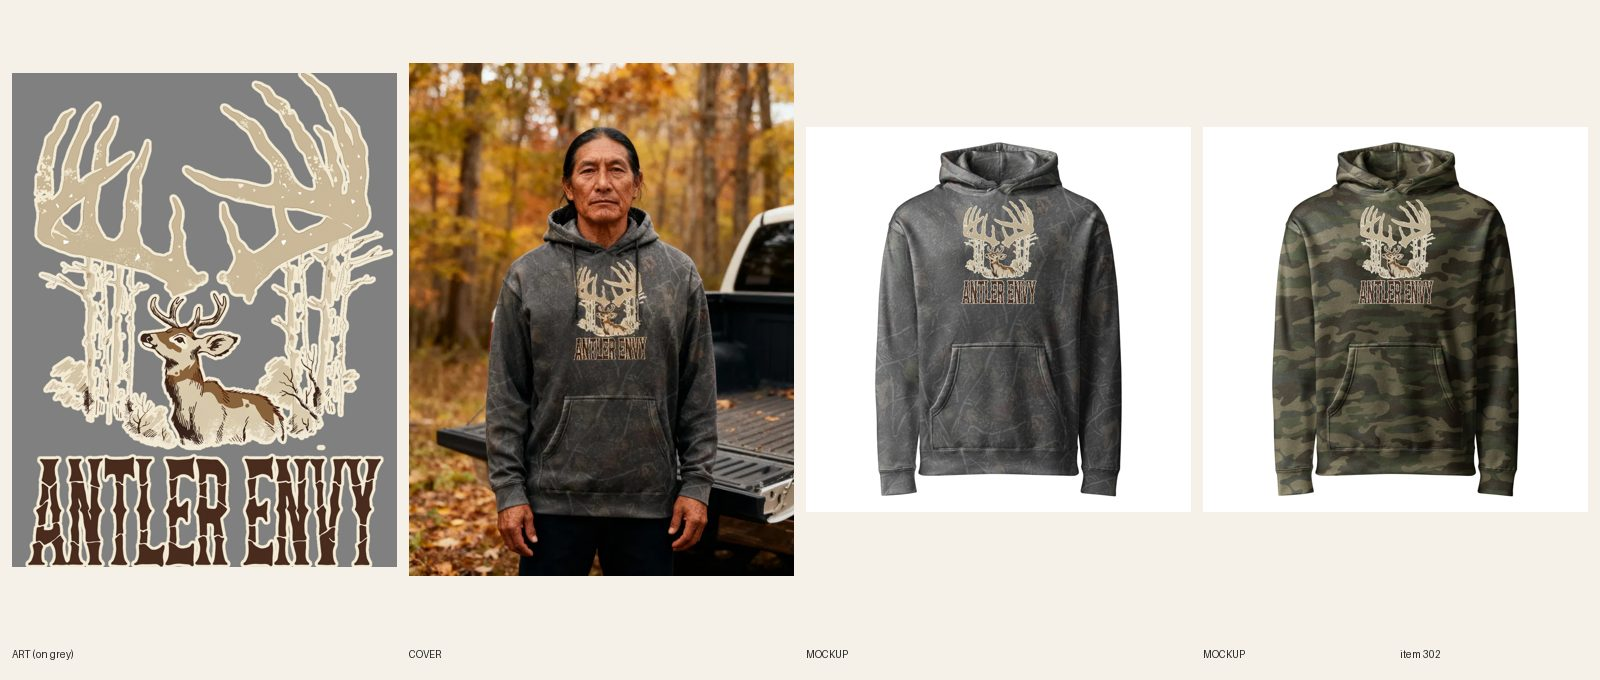
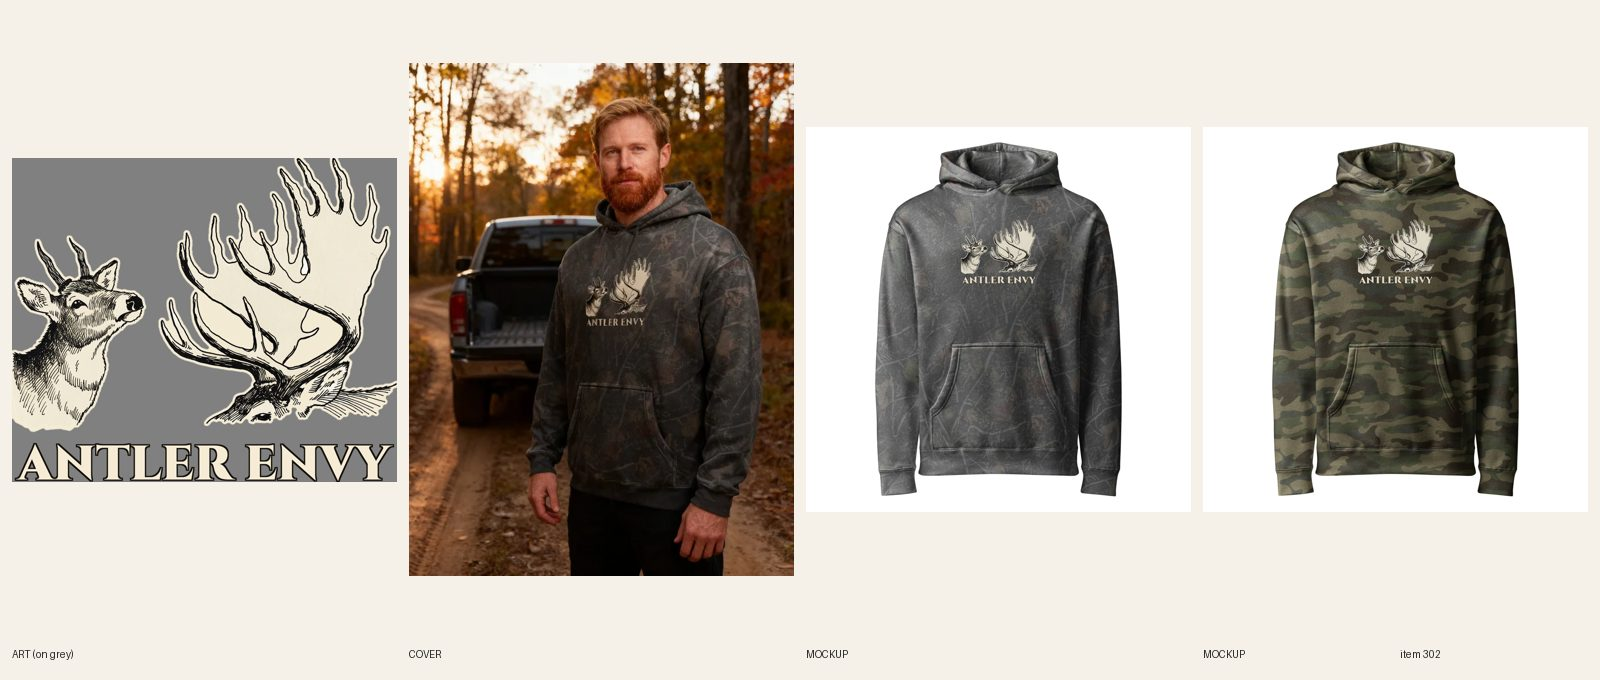
[B] review 302 camo redo 13 (antler envy field-guide print, lifestyle photos)

Changed region(s): [[0.0, 0.0926, 0.5, 0.8647], [0.8438, 0.2779, 0.9062, 0.4632], [0.5938, 0.2779, 0.6562, 0.4632]]

diff --git a/src/data/covers.ts b/src/data/covers.ts
@@ -322,7 +322,7 @@ export const covers: Record<string, { src: string; alt: string }> = {
   'womens-hunting-ducks-in-a-row-camo-hoodie': { src: '/covers/womens-hunting-ducks-in-a-row-camo-hoodie.webp', alt: 'Woman in her late 30s with blonde hair in a messy bun and freckles in a Duck Camo Got My Ducks in a Row hoodie at a farm pond edge in October with ducks on the water' },
   'womens-hunting-doe-not-disturb-camo-hoodie': { src: '/covers/womens-hunting-doe-not-disturb-camo-hoodie.webp', alt: 'Woman in her mid 30s with wavy dark hair and a few grey strands in a Forest Camo Doe Not Disturb sleepy doe hoodie, eyes closed, leaning on a pickup tailgate at a hayfield at golden hour with a thermos beside her' },
   'mens-hunting-i-saw-you-move-squirrel-camo-hoodie': { src: '/covers/mens-hunting-i-saw-you-move-squirrel-camo-hoodie.webp', alt: 'Man in his late 30s with short twists and light stubble in a Forest Camo Saw You Move hoodie with a small squirrel graphic on the left chest, smiling with a coffee on a hay bale beside a barn at golden hour' },
-  'mens-hunting-antler-envy-buck-camo-hoodie': { src: '/covers/mens-hunting-antler-envy-buck-camo-hoodie.webp', alt: 'Man in his late 40s with long black hair tied back in a Darkwood Tree Camo Antler Envy buck hoodie on a dirt two-track through autumn woods beside a pickup with the tailgate down' },
+  'mens-hunting-antler-envy-buck-camo-hoodie': { src: '/covers/mens-hunting-antler-envy-buck-camo-hoodie.webp', alt: 'Man in his mid 40s with a trimmed red-brown beard in a Darkwood Tree Camo Antler Envy buck hoodie on a dirt two-track through autumn woods at first light beside a pickup with the tailgate down' },
   'unisex-possum-playing-dead-camo-hoodie': { src: '/covers/unisex-possum-playing-dead-camo-hoodie.webp', alt: 'Man and woman in matching Forest Camo Playing Dead Till Friday possum hoodies standing by a leafy college-town park bench in October with coffee cups beside them' },
   'mens-hunting-call-me-after-duck-season-camo-sweatshirt': { src: '/covers/mens-hunting-call-me-after-duck-season-camo-sweatshirt.webp', alt: 'Man in his early 60s with a bald head and a grey goatee in an all-over woodland camo Call Me After Duck Season sweatshirt at a marsh boat ramp at sunrise with a dog sitting beside him' },
   'womens-hunting-here-for-the-sunrise-camo-sweatshirt': { src: '/covers/womens-hunting-here-for-the-sunrise-camo-sweatshirt.webp', alt: 'Woman in her late 40s with shoulder-length brown hair and caramel highlights smiling in an all-over woodland camo Only Here for the Sunrise sweatshirt in a wooden duck blind on a marsh at sunrise with a thermos on the bench' },

diff --git a/designs/b302/lock.py b/designs/b302/lock.py
@@ -1,0 +1,14 @@
+import sys, subprocess; sys.path.insert(0, '.')
+from designs.lib import *
+from PIL import Image
+W = 3000; DARK = (20, 16, 12, 255)
+subprocess.run(['/usr/bin/python3', 'scripts/camo-halo.py', 'designs/b302/art_p.png', 'designs/b302/art_h.png', '60', '16'], check=True)
+ah = Image.open('designs/b302/art_h.png').convert('RGBA'); ah = ah.crop(ah.getbbox())
+ah = ah.resize((W, int(ah.height * W / ah.width)), Image.LANCZOS)
+t = line('ANTLER ENVY', 'cinzel', 0.97, W, CREAM, DARK, kw=21)
+gap = 60; H = ah.height + gap + t.height; out = Image.new('RGBA', (W, H), (0, 0, 0, 0))
+out.alpha_composite(ah, ((W - ah.width) // 2, 0)); out.alpha_composite(t, ((W - t.width) // 2, ah.height + gap))
+out = out.crop(out.getbbox()); out.save('docs/print-files/302-antler.png', dpi=(300, 300))
+print(out.size, 'text w', t.width, 'cap', t.height, 'art', ah.size, 'FW1500 h', round(1500 * out.height / out.width))
+for n, c in (('darkwood', (60, 56, 44, 255)), ('forest', (52, 62, 44, 255))):
+    b = Image.new('RGBA', out.size, c); b.alpha_composite(out); b.convert('RGB').resize((500, int(500 * out.height / out.width))).save(f'designs/b302/prev_{n}.png')

diff --git a/docs/intake-log.md b/docs/intake-log.md
@@ -1,4 +1,5 @@
 RUNNING lane B since 2026-10-26 13:40 UTC
+2026-10-26 14:25 UTC — [B] REVIEW #302 Men's Hunting – Antler Envy Camo Hoodie (camo-redo 13 of 27, S2 on A+, FW1500 TOP400, 14/14 on 1095448715, line 2955 px, subject 100%, cap 304 of 2521 px, Cinzel; 2 lifestyle photos). Product ACTIVE, director to confirm. fal ~$0.25.
 2026-10-25 23:42 UTC — [H] Helper run: Telegram inbox empty (getUpdates returned 0 updates; no pause, resume or TikTok links; nothing to consume). Shopify: 0 orders since 2026-10-25 14:42 UTC, so no order alert and no Printful hold check. Audit 732 live products: 7 ERRORs, all visual (unisex product on women's/men's grids with a wrong-person cover, same as already noted), 163 warnings left alone; no scripted fixes; no price errors. npm ci first (esbuild was missing). Committed docs/cohesion-audit.md and .json. Category check: 0 products without a Shopify category (no mutation). Site check: womens-hiking-treat-me-like-wildlife-camo-hoodie, mens-hunting-i-saw-you-move-squirrel-camo-hoodie and mens-hunting-long-beard-short-temper-camo-hoodie all 200; /hoodies/hunting-hoodies/ and homepage 200. Stuck work: no BUILDING item over 3 hours; no other lane lock held. Daily summary not due (sent at the 14:42 run). Lock released.
 2026-10-25 23:14 UTC — [D] Director run: inbox nothing new. Reviewed 2 camo redo sheets, both LIVE in place (already ACTIVE, not new products): #901 Treat Me Like Wildlife (S4 retro sun on A+, punch 104%, copied to reference/best) and #301 Saw You Move squirrel (S8 icon on B3, caps ~59 px, soft cover caption per the B3 photo rule); audit --handle PASS 0 warn each, pages 200 (npm ci first, esbuild was missing). No new LIVE products: Oct 25 Chicago cap (6) reached at the 14:23 run. No new briefs: 56 READY, over the 6-12 target. No Telegram (not a digest run; nothing needs Sam). Lock released.
 2026-10-25 21:49 UTC — [B] Builder run end: 2 items, camo redo #11 #901 (retro goat, A+) and #12 #301 (squirrel, B3); both ACTIVE, director to confirm. New products today: 0 of 6. fal ~$0.70. Lock released.

diff --git a/docs/pipeline/302-camo-hoodie-antler-envy.md b/docs/pipeline/302-camo-hoodie-antler-envy.md
@@ -1,4 +1,4 @@
-status: REDO
+status: REVIEW
 lane: B
 type: new
 id: 302
@@ -31,3 +31,4 @@ handle: mens-hunting-antler-envy-buck-camo-hoodie
 - 2026-10-17 03:14 UTC director: approved from docs/review/302.jpg; ACTIVE + Online Store + Headless + Google; cohesion-audit --handle PASS (0 warn). Copy fix: the buck lies bedded under the rack (not gazing up); "biggest rack" gift line reworded (R3.7.3). LIVE.
 - 2026-10-22 22:00 UTC Claude (Sam): REDO, camo redo #13 of 27, style S2. New art in its own style, no box, no condensed sans, placement per docs/backlog/camo-redo.md (never TOP 0). Redo in place.
 - 2026-10-22 22:40 UTC Claude (Sam): placement A/B test, this item is A+ (center 10 in, tag placement-a).
+- 2026-10-26 14:25 UTC [B]: camo-redo #13 (S2 field guide on A+, tag placement-a), in place on product 15362832826672. New art: 3 Recraft calls kept the 3rd (spike buck staring up at a giant trophy-rack ghost, cream and black engraving, no orange so nothing reads as a wound), specks removed, white gaps knocked, cream halo; ANTLER ENVY below in Cinzel (lane B last 5 faces: Bowlby, Playfair, Bevan, Lobster, Rye, Alfa; Cinzel not among them), cream with dark keyline. Subject 3000 of 3000 px = 100%, line 2955 px, cap 304 of 2521 px. Print 3000 x 2521, FW1500 TOP400 (h 1260, TOP+h 1660 <= 2100). Light file n/a (Darkwood and Forest only). R7.7: 14/14 on file 1095448715, back logo unchanged. Front mockups replaced in place. Copy, SEO, FAQ (5), tags rewritten; title unchanged. Lifestyle: registry 1157, 2 seedream calls kept (trailhead two-track cover, deer camp porch image 2; lettering legible, no hand over print), covers.ts alt updated. Audit PASS 0 warn. Sheet docs/review/302.jpg. Product is ACTIVE: director to confirm. fal ~$0.25.

diff --git a/docs/model-registry.md b/docs/model-registry.md
@@ -949,3 +949,4 @@ Rows 11–43 were re-pointed on 2026-10-08 when the briefs were rewritten from d
 | 1154 | Filipino-American man, early 40s, short black hair graying at the temples, clean-shaven, lean build, no hat | USED 2026-10-25 — #224 camo redo cover + second photo |
 | 1155 | Korean-American woman, early 30s, shoulder-length black hair with bangs, trail-running build, no hat | USED 2026-10-25 — #901 camo redo cover + second photo |
 | 1156 | Black man, late 30s, short twists, light stubble, athletic build, no hat | USED 2026-10-25 — #301 camo redo cover + second photo |
+| 1157 | white man, mid 40s, short sandy-brown hair, trimmed red-brown beard, no hat, medium build | USED 2026-10-26 — #302 camo redo cover + second photo |
